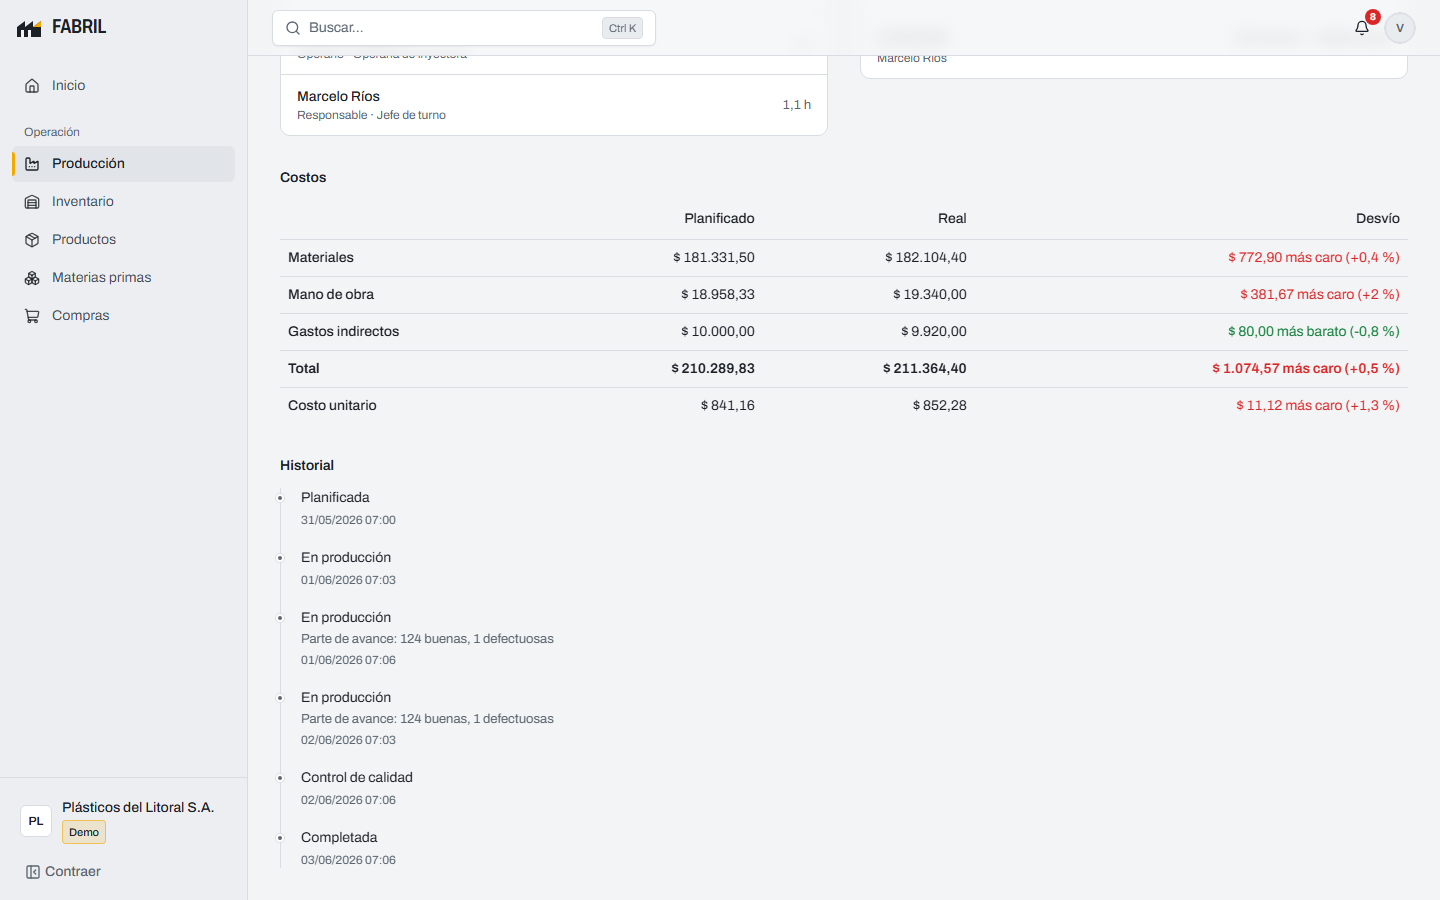
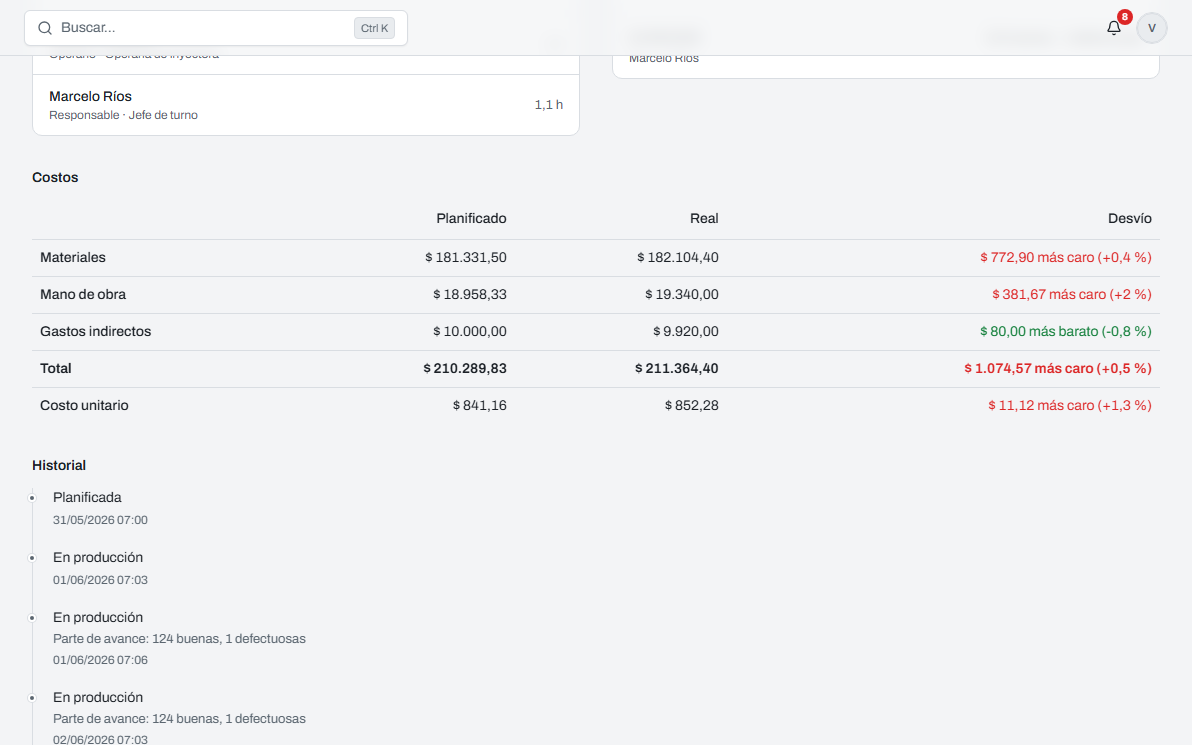
feat(landing): capturas más grandes y legibles (sin barra lateral, columna de imagen más ancha)

diff --git a/src/features/marketing/components/modules-showcase.tsx b/src/features/marketing/components/modules-showcase.tsx
@@ -28,7 +28,12 @@ export function ModulesShowcase() {
             return (
               <article
                 key={m.id}
-                className="grid items-center gap-8 lg:grid-cols-2 lg:gap-14"
+                className={cn(
+                  "grid items-center gap-8 lg:gap-10",
+                  i % 2 === 1
+                    ? "lg:grid-cols-[minmax(0,1.5fr)_minmax(0,1fr)]"
+                    : "lg:grid-cols-[minmax(0,1fr)_minmax(0,1.5fr)]",
+                )}
                 aria-labelledby={`modulo-${m.id}`}
               >
                 <div className={cn("max-w-lg", i % 2 === 1 && "lg:order-2")}>

diff --git a/src/features/marketing/components/screenshot-frame.test.tsx b/src/features/marketing/components/screenshot-frame.test.tsx
@@ -14,8 +14,8 @@ describe("ScreenshotFrame", () => {
     const img = screen.getByRole("img", { name: "Pantalla de Producción en FABRIL" });
     expect(img).toHaveAttribute("src", "/capturas/produccion.png");
     expect(img).toHaveAttribute("loading", "lazy");
-    expect(img).toHaveAttribute("width", "1440");
-    expect(img).toHaveAttribute("height", "900");
+    expect(img).toHaveAttribute("width", "1192");
+    expect(img).toHaveAttribute("height", "745");
   });
 
   test("sin src conserva el marco vacío con su texto", () => {

diff --git a/src/features/marketing/components/screenshot-frame.tsx b/src/features/marketing/components/screenshot-frame.tsx
@@ -18,8 +18,8 @@ export function ScreenshotFrame({ label, src }: { label: string; src?: string })
         <img
           src={src}
           alt={label}
-          width={1440}
-          height={900}
+          width={1192}
+          height={745}
           loading="lazy"
           className="block h-auto w-full"
         />
